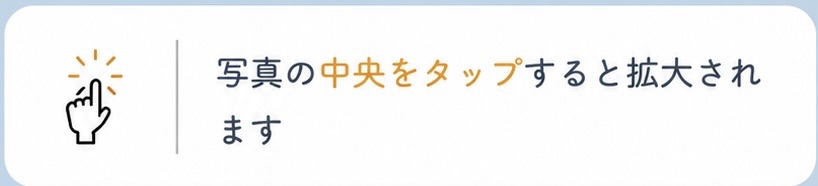
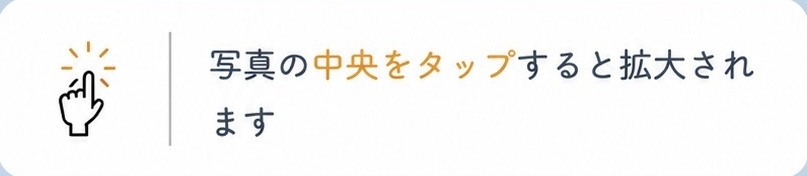
Add files via upload

diff --git a/css/style.css b/css/style.css
@@ -458,12 +458,17 @@ body {
   flex-shrink: 0;
 }
 
-/* お座席ページの案内（新郎新婦からいただいた画像・2026-08-18） */
+/* お座席・アルバムページの案内（新郎新婦からいただいた画像・2026-08-18）
+   いただいた画像は元のスクリーンショットの水色が周囲に数px残っていたため、
+   画像側で切り落とし済み。四隅に残る水色は下の角丸で切り抜く。
+   角丸16px … 表示幅が最大(429px)のとき角の水色が約13px分になるため、それを上回る値。
+   縁取りは BACK ボタン・メニューボタンと同じ rgba(255,255,255,0.55)。 */
 .seating-hint-img {
   display: block;
   width: 100%;
   height: auto;
-  border-radius: 12px;
+  border: 1px solid rgba(255, 255, 255, 0.55);
+  border-radius: 16px;
   margin: 0 0 2rem;
 }
 
@@ -692,14 +697,19 @@ body {
 }
 
 /* ---------- 画像のボタン（2026-08-18 新郎新婦からいただいたアイコンに差し替え） ----------
-   画像そのものが角丸・塗り・文字を含んでいるので、CSS側の背景・枠・影は消す。 */
+   画像そのものが塗り・アイコン・文字を含んでいるので、CSS側の背景・影は消す。
+   2026-08-18 追加調整:
+     ・画像は白フチを切り落とした版に差し替え済み。残る四隅の白は角丸で切り抜く
+     ・object-fit: cover にして、枠の中に地の色が覗かないようにする
+     ・縁取りは BACK ボタンと同じ rgba(255,255,255,0.55) */
 .nav-square.has-icon {
-  aspect-ratio: 400 / 476; /* いただいた画像の縦横比に合わせる（元は正方形） */
+  aspect-ratio: 400 / 478; /* いただいた画像の縦横比に合わせる（元は正方形） */
   background: none;
-  border: none;
+  border: 1px solid rgba(255, 255, 255, 0.55);
   box-shadow: none;
   padding: 0;
-  border-radius: 0;
+  border-radius: 12%;
+  overflow: hidden;
 }
 
 .nav-square.has-icon:nth-child(3n + 1),
@@ -710,10 +720,8 @@ body {
 .nav-square-img {
   width: 100%;
   height: 100%;
-  object-fit: contain;
+  object-fit: cover;
   display: block;
-  /* 画像の四隅に残る白を切り落とす */
-  border-radius: 12%;
 }
 
 /* 英語（1行）：オレンジ、マス幅基準で最大化 */
@@ -1078,12 +1086,19 @@ video.photo-modal-img {
   display: none;
 }
 
+/* アルバム用：拡大写真のまわり。矢印と枚数カウンタの位置の基準になる
+   （2026-08-18 の並び替えで、一覧を上に出したため必要になった） */
+.photo-slider .ph-stage {
+  position: relative;
+}
+
 /* ---------- アルバム用：全部の写真を小さく1列に並べたもの ---------- */
+/* 2026-08-18 並び替え: 拡大写真の【下】→【上】へ移動 */
 .photo-slider .ph-thumbs {
   display: flex;
   justify-content: center;
   gap: 2px;
-  margin-top: 0.55rem;
+  margin: 0 0 0.55rem;
 }
 
 .photo-slider .ph-thumb {

diff --git a/js/app.js b/js/app.js
@@ -587,16 +587,21 @@
       })
       .join("");
 
+    // 2026-08-18 並び替え: 【前】拡大写真→説明文→一覧　【後】一覧→拡大写真→説明文
+    // 矢印と「1 / 15」は拡大写真の上に重ねたいので、写真まわりを .ph-stage で囲って
+    // その中で位置を決める（囲わないと、一覧の上に矢印やカウンタが乗ってしまう）。
     return (
       '<div class="photo-slider" data-slider="album' + gi + '">' +
+      '<div class="ph-thumbs">' + thumbs + "</div>" +
+      '<div class="ph-stage">' +
       '<div class="ph-track">' + slides + "</div>" +
       '<button class="ph-arrow ph-prev" type="button" aria-label="前の写真">‹</button>' +
       '<button class="ph-arrow ph-next" type="button" aria-label="次の写真">›</button>' +
       '<div class="ph-count"><span class="ph-cur">1</span> / ' + list.length + "</div>" +
+      "</div>" +
       // 小さい写真の列がドットの代わりになるので、ドットは隠す（枚数の計算には使う）
       '<div class="ph-dots is-off">' + dots + "</div>" +
       (hasCaption ? '<p class="ph-caption timeline-text"></p>' : "") +
-      '<div class="ph-thumbs">' + thumbs + "</div>" +
       "</div>"
     );
   }
